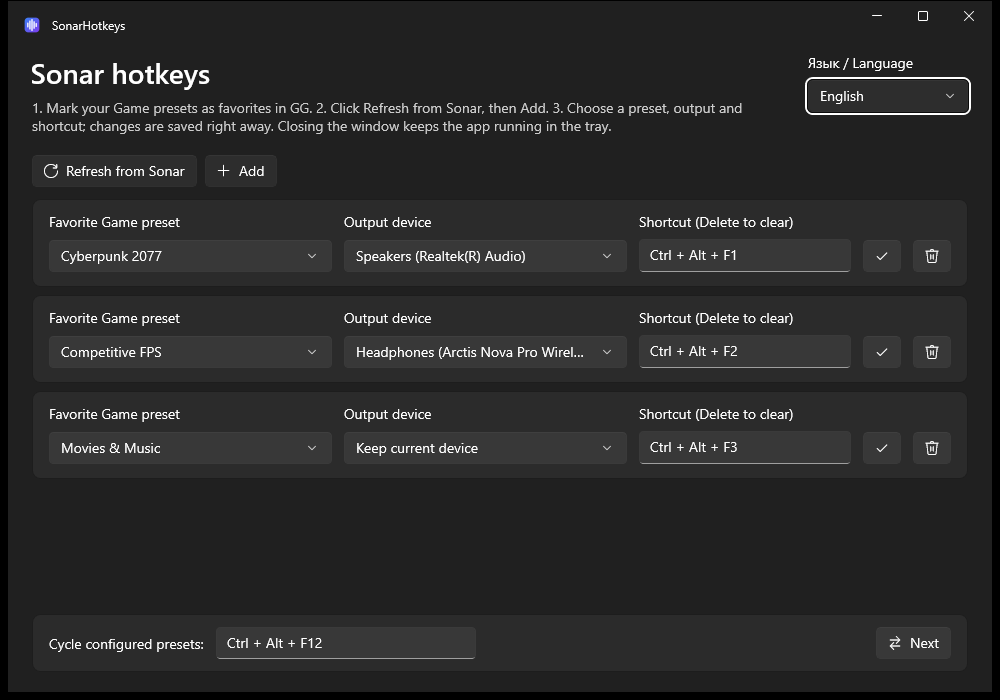
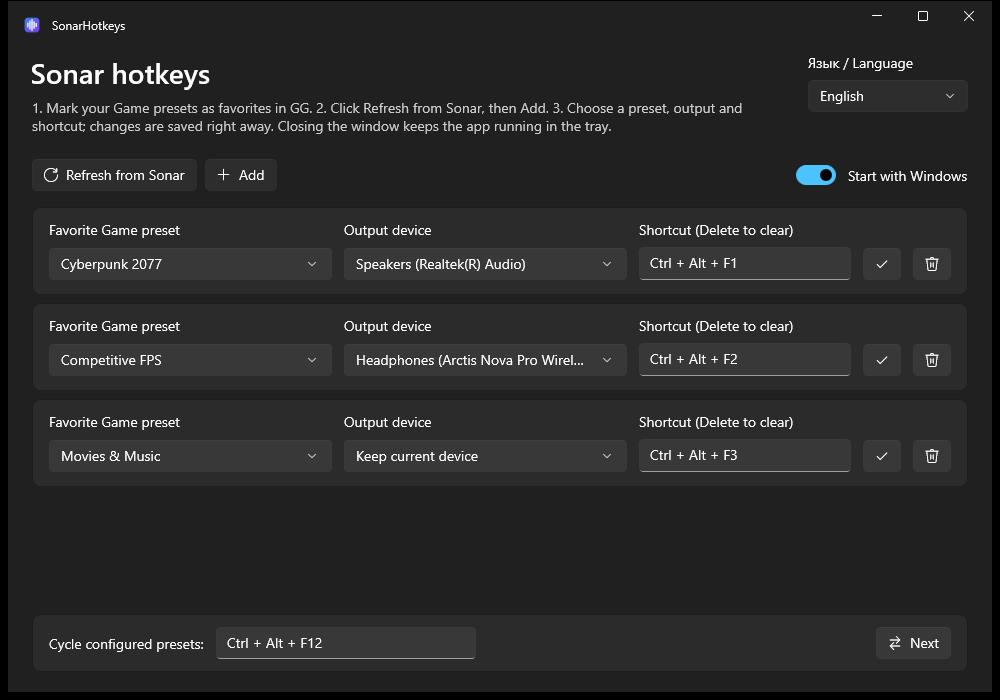
Выпуск 2.1.0: установщик MSI и запуск вместе с Windows
- MSI на WiX 5 (installer/): установка для текущего пользователя в
  %LOCALAPPDATA%\Programs без прав администратора, ярлык в «Пуске»,
  мастер с лицензиями Microsoft, запуск по окончании. Новая версия
  ставится до удаления старой, поэтому общие компоненты сохраняются.
- Переключатель «Запускать вместе с Windows» в окне и меню трея: ярлык в
  папке «Автозагрузка» с --tray. Ярлык, а не запись Run: действия MSI не
  видят ветку HKCU пользователя, а файл установщик удаляет штатно.
- Выход по WM_ENDSESSION и RegisterApplicationRestart: Restart Manager
  закрывает программу при обновлении, Windows запускает её снова.
- Publish.ps1 собирает ZIP и MSI; License.rtf собирается из licenses/.
- Убрана рамка фокуса с кнопки языка при открытии окна.
- Проверки автозапуска на временной папке.

diff --git a/SonarHotkeys.WinUI/MainWindow.xaml b/SonarHotkeys.WinUI/MainWindow.xaml
@@ -71,6 +71,7 @@
                     </StackPanel>
                 </Button>
             </StackPanel>
+            <ToggleSwitch x:Name="AutostartSwitch" HorizontalAlignment="Right" VerticalAlignment="Center" MinWidth="0" Toggled="OnAutostartToggled" />
         </Grid>
 
         <Grid Grid.Row="3">

diff --git a/SonarHotkeys.Core/Autostart.cs b/SonarHotkeys.Core/Autostart.cs
@@ -1,0 +1,103 @@
+using System.Runtime.InteropServices;
+using System.Runtime.InteropServices.Marshalling;
+
+namespace SonarHotkeys;
+
+/// <summary>
+/// Starting with Windows through a shortcut in the user's Startup folder; no administrator rights are needed.
+/// A shortcut rather than a Run registry value: the MSI can delete a file on uninstall in the user's profile, while
+/// its custom actions do not see the user's registry hive. The folder is a parameter so checks can use a scratch one.
+/// </summary>
+public sealed partial class Autostart(string? folder = null)
+{
+    public const string Arguments = "--tray";
+    private const string FileName = "SonarHotkeys.lnk";
+    private readonly string _path = Path.Combine(folder ?? Environment.GetFolderPath(Environment.SpecialFolder.Startup), FileName);
+
+    public bool IsEnabled => File.Exists(_path);
+
+    public void Enable(string executablePath)
+    {
+        Directory.CreateDirectory(Path.GetDirectoryName(_path)!);
+        var link = CreateShellLink();
+        link.SetPath(executablePath);
+        link.SetArguments(Arguments);
+        link.SetWorkingDirectory(Path.GetDirectoryName(executablePath)!);
+        link.SetDescription("SonarHotkeys");
+        ((IPersistFile)link).Save(_path, true);
+    }
+
+    public void Disable()
+    {
+        if (File.Exists(_path)) File.Delete(_path);
+    }
+
+    /// <summary>Points an existing shortcut at this executable, e.g. after the portable folder was moved; returns true if it changed.</summary>
+    public bool Refresh(string executablePath)
+    {
+        if (!IsEnabled) return false;
+        var (target, arguments) = Read();
+        if (string.Equals(target, executablePath, StringComparison.OrdinalIgnoreCase) && arguments == Arguments) return false;
+        Enable(executablePath);
+        return true;
+    }
+
+    /// <summary>The shortcut's target and arguments.</summary>
+    public unsafe (string Target, string Arguments) Read()
+    {
+        var link = CreateShellLink();
+        ((IPersistFile)link).Load(_path, 0);
+        const int capacity = 1024;
+        char* buffer = stackalloc char[capacity];
+        link.GetPath(buffer, capacity, 0, 0);
+        string target = new(buffer);
+        link.GetArguments(buffer, capacity);
+        return (target, new string(buffer));
+    }
+
+    private static IShellLinkW CreateShellLink()
+    {
+        Guid clsid = new("00021401-0000-0000-C000-000000000046"), iid = typeof(IShellLinkW).GUID;
+        Marshal.ThrowExceptionForHR(CoCreateInstance(clsid, 0, 1 /* CLSCTX_INPROC_SERVER */, iid, out nint pointer));
+        try { return (IShellLinkW)new StrategyBasedComWrappers().GetOrCreateObjectForComInstance(pointer, CreateObjectFlags.None); }
+        finally { Marshal.Release(pointer); }
+    }
+
+    [LibraryImport("ole32.dll")]
+    private static partial int CoCreateInstance(in Guid clsid, nint outer, uint context, in Guid iid, out nint instance);
+
+    // Declared in vtable order; only the members used above are called.
+    [GeneratedComInterface, Guid("000214F9-0000-0000-C000-000000000046")]
+    internal unsafe partial interface IShellLinkW
+    {
+        void GetPath(char* file, int capacity, nint findData, uint flags);
+        void GetIDList(out nint idList);
+        void SetIDList(nint idList);
+        void GetDescription(char* name, int capacity);
+        void SetDescription([MarshalAs(UnmanagedType.LPWStr)] string name);
+        void GetWorkingDirectory(char* directory, int capacity);
+        void SetWorkingDirectory([MarshalAs(UnmanagedType.LPWStr)] string directory);
+        void GetArguments(char* arguments, int capacity);
+        void SetArguments([MarshalAs(UnmanagedType.LPWStr)] string arguments);
+        void GetHotkey(out ushort hotkey);
+        void SetHotkey(ushort hotkey);
+        void GetShowCmd(out int showCommand);
+        void SetShowCmd(int showCommand);
+        void GetIconLocation(char* iconPath, int capacity, out int iconIndex);
+        void SetIconLocation([MarshalAs(UnmanagedType.LPWStr)] string iconPath, int iconIndex);
+        void SetRelativePath([MarshalAs(UnmanagedType.LPWStr)] string relativePath, uint reserved);
+        void Resolve(nint window, uint flags);
+        void SetPath([MarshalAs(UnmanagedType.LPWStr)] string file);
+    }
+
+    [GeneratedComInterface, Guid("0000010b-0000-0000-C000-000000000046")]
+    internal partial interface IPersistFile
+    {
+        void GetClassID(out Guid classId);
+        [PreserveSig] int IsDirty();
+        void Load([MarshalAs(UnmanagedType.LPWStr)] string fileName, uint mode);
+        void Save([MarshalAs(UnmanagedType.LPWStr)] string fileName, [MarshalAs(UnmanagedType.Bool)] bool remember);
+        void SaveCompleted([MarshalAs(UnmanagedType.LPWStr)] string fileName);
+        void GetCurFile(out nint fileName);
+    }
+}

diff --git a/SonarHotkeys.WinUI/MainWindow.xaml.cs b/SonarHotkeys.WinUI/MainWindow.xaml.cs
@@ -23,7 +23,7 @@ public sealed partial class MainWindow : Window
     private readonly DispatcherTimer _statusTimer = new();
     private List<ChoiceItem> _presets = [], _devices = [];
     private readonly Dictionary<string, RadioMenuFlyoutItem> _languageItems = [];
-    private bool _exiting, _capturing;
+    private bool _exiting, _capturing, _updatingAutostart;
 
     public ObservableCollection<BindingRow> Rows { get; } = [];
 
@@ -47,6 +47,7 @@ public sealed partial class MainWindow : Window
         // so switching to a game right after capturing a shortcut already uses it.
         Activated += (_, e) =>
         {
+            if (e.WindowActivationState != WindowActivationState.Deactivated) HideInitialFocusVisual();
             if (!_capturing) return;
             if (e.WindowActivationState == WindowActivationState.Deactivated) _app.ResumeHotkeys();
             else _app.SuspendHotkeys();
@@ -65,6 +66,7 @@ public sealed partial class MainWindow : Window
         ApplyLanguage();
         EmptyText.Visibility = Rows.Count == 0 ? Visibility.Visible : Visibility.Collapsed;
         SetBusy(_app.IsBusy);
+        UpdateAutostart();
         if (_app.LastMessage is { } last) ShowStatus(last.Text, last.Error);
     }
 
@@ -102,6 +104,8 @@ public sealed partial class MainWindow : Window
     public void ShowAndActivate()
     {
         if (AppWindow.Presenter is OverlappedPresenter { State: OverlappedPresenterState.Minimized } presenter) presenter.Restore();
+        // The tray menu can change it while the window is hidden.
+        UpdateAutostart();
         AppWindow.Show();
         Activate();
         Native.SetForegroundWindow(_hwnd);
@@ -129,6 +133,7 @@ public sealed partial class MainWindow : Window
         AutomationProperties.SetName(RefreshButton, RefreshText.Text);
         AutomationProperties.SetName(AddButton, AddText.Text);
         AutomationProperties.SetName(NextButton, NextText.Text);
+        AutostartSwitch.OnContent = AutostartSwitch.OffContent = T("Autostart.Label");
         foreach (var (code, item) in _languageItems) item.IsChecked = code == _app.Settings.Language;
         LanguageButton.Content = TextCatalog.Languages.FirstOrDefault(l => l.Code == _app.Settings.Language)?.Name;
         foreach (var row in Rows) row.SetText(T);
@@ -203,6 +208,29 @@ public sealed partial class MainWindow : Window
         }
         ElementCompositionPreview.SetImplicitShowAnimation(StatusPanel, Animation(0, 1, 12, 0, 200));
         ElementCompositionPreview.SetImplicitHideAnimation(StatusPanel, Animation(1, 0, 0, 12, 150));
+    }
+
+    // On activation WinUI focuses the first control as if reached with Tab, which draws a white focus rectangle
+    // around the language button. Focusing it again programmatically keeps the focus but hides the rectangle;
+    // Tab still shows it as usual.
+    private void HideInitialFocusVisual() =>
+        DispatcherQueue.TryEnqueue(Microsoft.UI.Dispatching.DispatcherQueuePriority.Low, () =>
+        {
+            if (Content.XamlRoot is { } root && FocusManager.GetFocusedElement(root) is Control { FocusState: FocusState.Keyboard } control
+                && control is not TextBox)
+                control.Focus(FocusState.Programmatic);
+        });
+
+    public void UpdateAutostart()
+    {
+        _updatingAutostart = true;
+        AutostartSwitch.IsOn = _app.StartsWithWindows;
+        _updatingAutostart = false;
+    }
+
+    private void OnAutostartToggled(object sender, RoutedEventArgs e)
+    {
+        if (!_updatingAutostart) _app.SetStartWithWindows(AutostartSwitch.IsOn);
     }
 
     private void BuildLanguageMenu()

diff --git a/SonarHotkeys.WinUI/TrayController.cs b/SonarHotkeys.WinUI/TrayController.cs
@@ -9,9 +9,10 @@ namespace SonarHotkeys;
 internal sealed class TrayController
 {
     private const int CycleId = 10000;
-    private const int MenuSettings = 1, MenuNext = 2, MenuRefresh = 3, MenuExit = 4, MenuPresetBase = 100;
+    private const int MenuSettings = 1, MenuNext = 2, MenuRefresh = 3, MenuExit = 4, MenuAutostart = 5, MenuPresetBase = 100;
     private readonly string _settingsPath;
     private readonly SonarService _sonar;
+    private readonly Autostart _autostart = new();
     private readonly CancellationTokenSource _lifetime = new();
     private readonly Dictionary<int, PresetBinding> _hotkeys = [];
     private TrayHost? _host;
@@ -38,6 +39,7 @@ internal sealed class TrayController
     public AppSettings Settings => _settings;
     public bool IsBusy => _busy;
     public nint WindowIcon => _host?.WindowIcon ?? 0;
+    public bool StartsWithWindows => _autostart.IsEnabled;
     public (string Text, bool Error)? LastMessage { get; private set; }
 
     public string T(string key, params object[] arguments) => TextCatalog.Get(key, _settings.Language, arguments);
@@ -51,7 +53,14 @@ internal sealed class TrayController
         _host.IconClicked += ShowWindow;
         _host.BalloonClicked += ShowWindow;
         _host.MenuRequested += ShowMenu;
+        _host.SessionEnding += Exit;
         RegisterHotkeys();
+#if !DEBUG
+        // A moved portable folder would leave the Run entry pointing at the old path.
+        // Skipped in Debug builds, so running one never redirects the real entry.
+        try { _autostart.Refresh(Environment.ProcessPath!); }
+        catch (Exception ex) { Report(T("Autostart.Failed", ex.Message), error: true); }
+#endif
         // A fresh installation always shows setup, even if launched with --tray.
         if (!startHidden || _settings.Bindings.Count == 0 || _startupError != null) ShowWindow();
         if (_startupError != null) Report(_startupError, error: true);
@@ -154,6 +163,17 @@ internal sealed class TrayController
         Report(T("Status.Saved"));
     }
 
+    public void SetStartWithWindows(bool enabled)
+    {
+        try
+        {
+            if (enabled) _autostart.Enable(Environment.ProcessPath!);
+            else _autostart.Disable();
+        }
+        catch (Exception ex) { Report(T("Autostart.Failed", ex.Message), error: true); }
+        _window?.UpdateAutostart();
+    }
+
     public void ChangeLanguage(string language)
     {
         if (language == _settings.Language) return;
@@ -235,12 +255,14 @@ internal sealed class TrayController
             new(T("Tray.Next"), MenuNext, !_busy && presets.Count > 0),
             new(T("Toolbar.Refresh"), MenuRefresh, !_busy),
             TrayMenuItem.Separator,
+            new(T("Autostart.Label"), MenuAutostart, Checked: StartsWithWindows),
             new(T("Tray.Exit"), MenuExit),
         };
         int command = _host.ShowMenu(menu);
         switch (command)
         {
             case MenuSettings: ShowWindow(); break;
+            case MenuAutostart: SetStartWithWindows(!StartsWithWindows); break;
             case MenuNext: _ = CycleAsync(); break;
             case MenuRefresh: _ = RefreshAsync(); break;
             case MenuExit: Exit(); break;

diff --git a/tests/SonarHotkeys.Checks/Program.cs b/tests/SonarHotkeys.Checks/Program.cs
@@ -115,6 +115,17 @@ try
     Check(ValidationError("", Row("a", ""), Row("a", "Ctrl + F1")) == "Each preset can be added only once.", "a repeated preset is rejected");
     Check(ValidationError("", Row("a", "Ctrl+Alt+1"), Row("b", "Alt + Ctrl + D1")) == "Shortcuts must be unique.", "the same shortcut in another spelling is rejected");
     Check(ValidationError("Ctrl + Alt + 1", Row("a", "Ctrl + Alt + D1")) == "The cycling shortcut is already assigned to a preset.", "the cycle shortcut cannot reuse a preset shortcut");
+    // Autostart against a scratch folder, never the real Startup folder.
+    var autostart = new Autostart(Path.Combine(directory, "Startup"));
+    Check(!autostart.IsEnabled, "autostart is off until enabled");
+    autostart.Enable(@"C:\Apps\SonarHotkeys\SonarHotkeys.exe");
+    Check(autostart.IsEnabled && autostart.Read() == (@"C:\Apps\SonarHotkeys\SonarHotkeys.exe", "--tray"),
+        "the Startup shortcut starts the app hidden in the tray");
+    Check(autostart.Refresh(@"D:\Moved\SonarHotkeys.exe") && autostart.Read().Target == @"D:\Moved\SonarHotkeys.exe"
+        && !autostart.Refresh(@"D:\Moved\SonarHotkeys.exe"), "a moved app updates its shortcut once");
+    autostart.Disable();
+    autostart.Disable();
+    Check(!autostart.IsEnabled && !autostart.Refresh(@"D:\Moved\SonarHotkeys.exe"), "disabling removes the shortcut and refresh does not recreate it");
     Check(new SonarService(() => "en").ErrorText(new SonarNotRunningException()) == "Sonar is unavailable. Enable Sonar in SteelSeries GG.",
         "Sonar errors use the selected language");
     Console.WriteLine($"PASS: {checks} checks. No real user settings or audio routes were modified.");

diff --git a/SonarHotkeys.WinUI/Interop/TrayHost.cs b/SonarHotkeys.WinUI/Interop/TrayHost.cs
@@ -32,6 +32,9 @@ internal sealed unsafe class TrayHost : IDisposable
     public event Action? MenuRequested;
     public event Action? BalloonClicked;
 
+    /// <summary>Windows is signing out or shutting down, or an installer asked the app to close.</summary>
+    public event Action? SessionEnding;
+
     public TrayHost(string tip)
     {
         if (_instance != null) throw new InvalidOperationException("Only one tray host is supported.");
@@ -174,6 +177,13 @@ internal sealed unsafe class TrayHost : IDisposable
                 case WM_CONTEXTMENU: MenuRequested?.Invoke(); break;
                 case NIN_BALLOONUSERCLICK: BalloonClicked?.Invoke(); break;
             }
+            return true;
+        }
+        // The settings window only hides on close, so the session end is handled here: this is how the
+        // Restart Manager closes the app during an MSI upgrade. WM_QUERYENDSESSION falls through (allowed).
+        if (message == WM_ENDSESSION)
+        {
+            if (wParam != 0) SessionEnding?.Invoke();
             return true;
         }
         if (message == _taskbarCreated && _taskbarCreated != 0)

diff --git a/SonarHotkeys.WinUI/Interop/Native.cs b/SonarHotkeys.WinUI/Interop/Native.cs
@@ -120,6 +120,13 @@ internal static unsafe partial class Native
     [LibraryImport("user32.dll", EntryPoint = "LoadIconW")]
     public static partial nint LoadIcon(nint instance, nint name);
 
+    public const uint WM_ENDSESSION = 0x0016;
+    // Restart only after an update closed the app, not after a crash, hang or reboot.
+    public const uint RESTART_NO_CRASH = 1, RESTART_NO_HANG = 2, RESTART_NO_REBOOT = 8;
+
+    [LibraryImport("kernel32.dll", StringMarshalling = StringMarshalling.Utf16)]
+    public static partial int RegisterApplicationRestart(string commandLine, uint flags);
+
     public const uint IMAGE_ICON = 1;
     public const int SM_CXICON = 11, SM_CXSMICON = 49;
 

diff --git a/SonarHotkeys.WinUI/Program.cs b/SonarHotkeys.WinUI/Program.cs
@@ -24,6 +24,8 @@ public static class Program
             showRequest.Set();
             return 0;
         }
+        // After an MSI upgrade closes the app, Windows starts it again in the tray.
+        Native.RegisterApplicationRestart("--tray", Native.RESTART_NO_CRASH | Native.RESTART_NO_HANG | Native.RESTART_NO_REBOOT);
         Application.Start(_ =>
         {
             var dispatcher = DispatcherQueue.GetForCurrentThread();

diff --git a/README.md b/README.md
@@ -24,7 +24,8 @@ Changing a Sonar preset and output device together usually means opening GG and 
 - **Safe switching.** If Sonar rejects part of a change, the previous preset and outputs are restored.
 - **English and Russian interface**, switchable at any time; more languages can be added as a single file.
 - **Native Windows look.** WinUI 3 with Mica and light and dark themes that follow Windows.
-- **Portable.** Extract the folder and run: no installer, and no .NET or Windows App SDK to install.
+- **Starts with Windows** if you want it to, hidden in the tray.
+- **Installer or portable.** A per-user MSI that needs no administrator rights, or a ZIP to run from any folder. Neither needs .NET or the Windows App SDK installed.
 
 ## Requirements
 
@@ -33,7 +34,7 @@ Changing a Sonar preset and output device together usually means opening GG and 
 
 ## Quick start
 
-1. Download `SonarHotkeys-win-x64.zip` from the [latest release](https://github.com/Ronnybest/SonarHotkeys/releases/latest), extract the `SonarHotkeys` folder anywhere and run `SonarHotkeys.exe` from it.
+1. From the [latest release](https://github.com/Ronnybest/SonarHotkeys/releases/latest), download and run `SonarHotkeys-win-x64.msi`. It installs for your account only, adds SonarHotkeys to the Start menu and starts it when you finish. For a portable copy, download `SonarHotkeys-win-x64.zip` instead, extract the `SonarHotkeys` folder anywhere and run `SonarHotkeys.exe` from it.
 2. In GG, mark the **Game** presets you want to use as favorites.
 3. In SonarHotkeys, click **Refresh from Sonar**, then **Add** a binding for each preset.
 4. Choose an output device, or keep **Keep current device** to switch only the preset.
@@ -60,11 +61,13 @@ Closing the window hides it to the tray. Click the tray icon or choose **Setting
 | --- | --- |
 | `--tray` | Start hidden in the tray. Ignored until at least one binding is saved, and in Debug builds. |
 
-To start with Windows, put a shortcut to `SonarHotkeys.exe --tray` into `shell:startup`.
+Turn on **Start with Windows** in the window or the tray menu to start SonarHotkeys hidden in the tray when you sign in. It adds a shortcut to your Startup folder, which also appears on the Startup apps page of Task Manager. The portable copy updates the shortcut when you move its folder, and uninstalling the MSI removes it.
 
 ## Settings
 
-Settings are stored per user in `%LOCALAPPDATA%\SonarHotkeys\settings.json`. To update, exit from the tray and replace the `SonarHotkeys` folder with the new one; your bindings are kept, including those saved by version 1.x. Preset and device IDs are specific to each computer, so set them up again on a new machine.
+Settings are stored per user in `%LOCALAPPDATA%\SonarHotkeys\settings.json`, separately from the app, so updating or uninstalling keeps your bindings, including those saved by version 1.x. Preset and device IDs are specific to each computer, so set them up again on a new machine.
+
+To update the installed app, run the new MSI: it closes the running app, replaces it and starts it again. To update the portable copy, exit from the tray and replace the `SonarHotkeys` folder.
 
 A damaged settings file is never overwritten automatically: the app starts with an empty configuration and shows the error. To reset, exit the app and delete the file.
 
@@ -77,6 +80,7 @@ A damaged settings file is never overwritten automatically: the app starts with 
 | An output device is missing | Connect it, refresh and choose it again |
 | "The shortcut is in use" | Another application or Windows owns it; choose a different combination |
 | No notifications | Check Windows notification settings and Do Not Disturb |
+| "Windows protected your PC" when starting the MSI or EXE | The files are not code-signed yet. Choose **More info**, then **Run anyway** |
 
 ## Building from source
 
@@ -88,12 +92,13 @@ dotnet run --project tests/SonarHotkeys.Checks/SonarHotkeys.Checks.csproj -c Rel
 powershell -NoProfile -ExecutionPolicy Bypass -File scripts/Publish.ps1
 ```
 
-The checks use temporary settings files and never touch your real settings or Sonar routing. `Publish.ps1` produces `artifacts/SonarHotkeys-win-x64.zip` with the application folder, documentation and licenses only.
+The checks use temporary settings files and a scratch Startup folder, and never touch your real settings, startup entries or Sonar routing. `Publish.ps1` produces `artifacts/SonarHotkeys-win-x64.zip` and `artifacts/SonarHotkeys-win-x64.msi`, both with the application folder, documentation and licenses only. The installer is built with [WiX Toolset](https://wixtoolset.org) 5, restored from NuGet during the build.
 
 | Project | Contents |
 | --- | --- |
 | `SonarHotkeys.Core` | Settings, shortcut parsing, translations and Sonar switching, independent of the UI |
 | `SonarHotkeys.WinUI` | The WinUI 3 app: settings window, tray icon and global hotkeys |
+| `installer` | The per-user MSI: Start menu shortcut, upgrades and removal of the autostart shortcut |
 | `tests/SonarHotkeys.Checks` | Checks for the core library and the translation files |
 
 Debug builds always show the window and accept `--settings=<file>` to use a separate settings file and `--skip-refresh` to keep the cached presets without contacting Sonar.

diff --git a/CHANGELOG.md b/CHANGELOG.md
@@ -1,5 +1,23 @@
 # Changelog / Журнал изменений
 
+## 2.1.0 — 2026-10-01
+
+Installer and starting with Windows. / Установщик и запуск вместе с Windows.
+
+### English
+
+- New `SonarHotkeys-win-x64.msi` installer. It installs for the current user into `%LOCALAPPDATA%\Programs\SonarHotkeys` without administrator rights, adds a Start menu shortcut and an entry in Settings → Apps, and can start the app when it finishes. The portable ZIP is still available.
+- Installing a new MSI over an older one closes the running app, replaces it and starts it again. Settings are kept.
+- **Start with Windows** switch in the window and the tray menu. It adds a shortcut to your Startup folder that starts the app hidden in the tray; a moved portable folder updates it, and uninstalling the MSI removes it.
+- The app now exits properly when Windows signs out or shuts down, or an installer asks it to close, instead of only hiding its window.
+
+### Русский
+
+- Новый установщик `SonarHotkeys-win-x64.msi`. Он ставит программу для текущего пользователя в `%LOCALAPPDATA%\Programs\SonarHotkeys` без прав администратора, добавляет ярлык в «Пуск» и запись в «Параметры → Приложения» и может запустить программу по окончании. Портативный ZIP остаётся.
+- Установка нового MSI поверх старого закрывает работающую программу, заменяет её и запускает снова. Настройки сохраняются.
+- Переключатель **Запускать вместе с Windows** в окне и в меню трея. Он добавляет в папку «Автозагрузка» ярлык, который запускает программу со скрытым окном в трее; при переносе портативной папки ярлык обновляется, а удаление MSI убирает его.
+- Программа теперь корректно завершается при выходе из системы, выключении или по просьбе установщика, а не просто прячет окно.
+
 ## 2.0.0 — 2026-09-30
 
 New WinUI 3 interface. / Новый интерфейс на WinUI 3.
